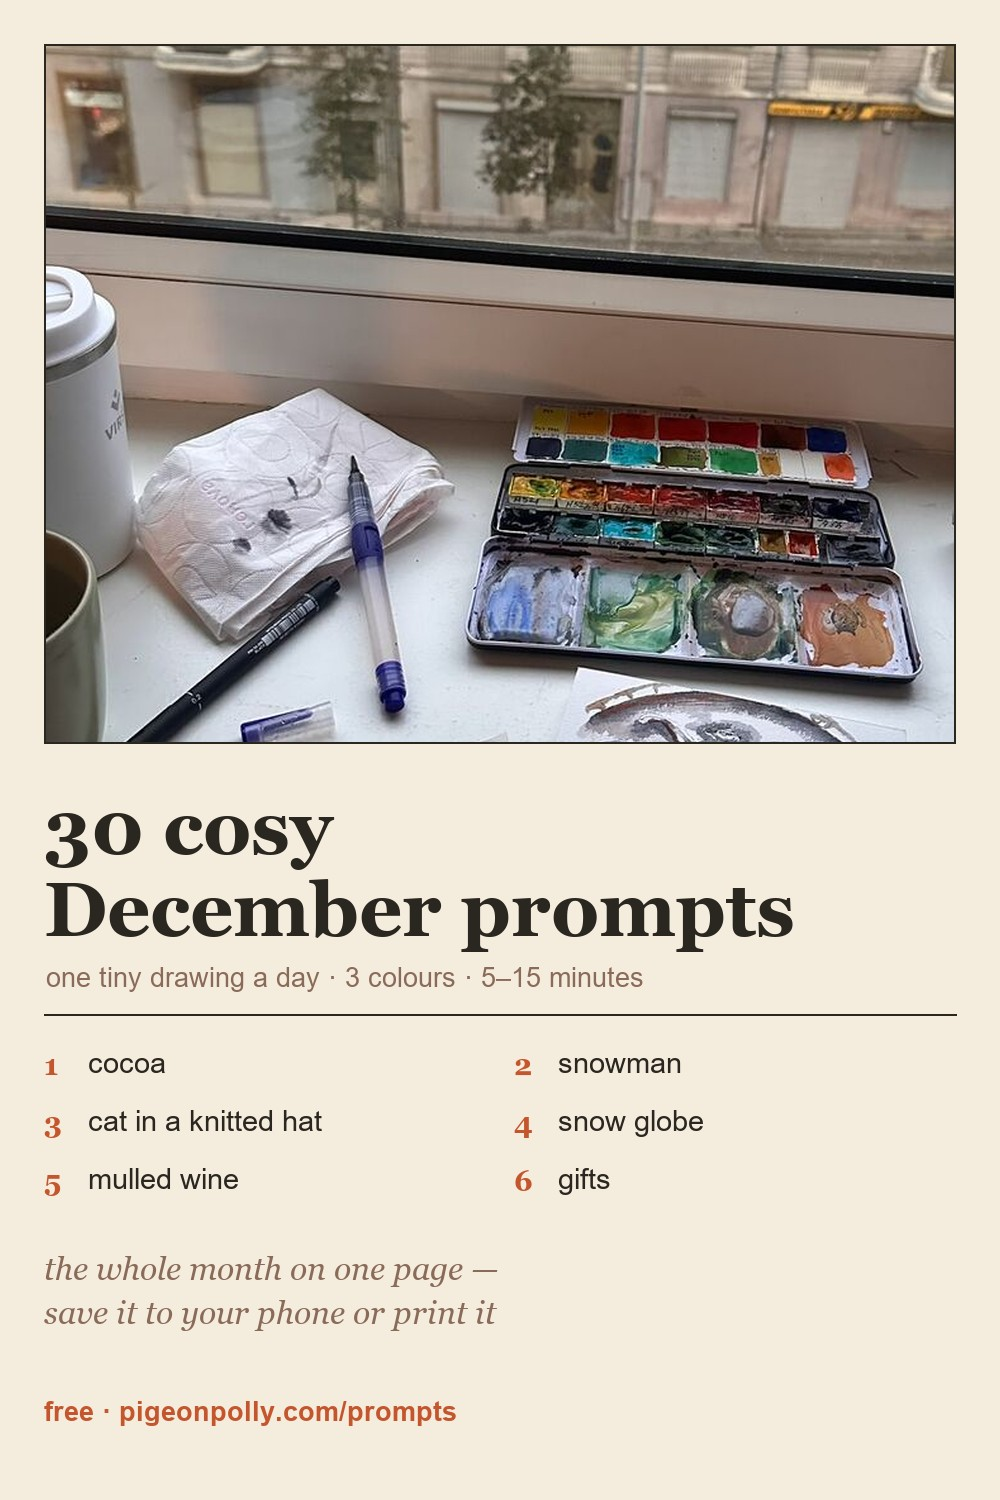
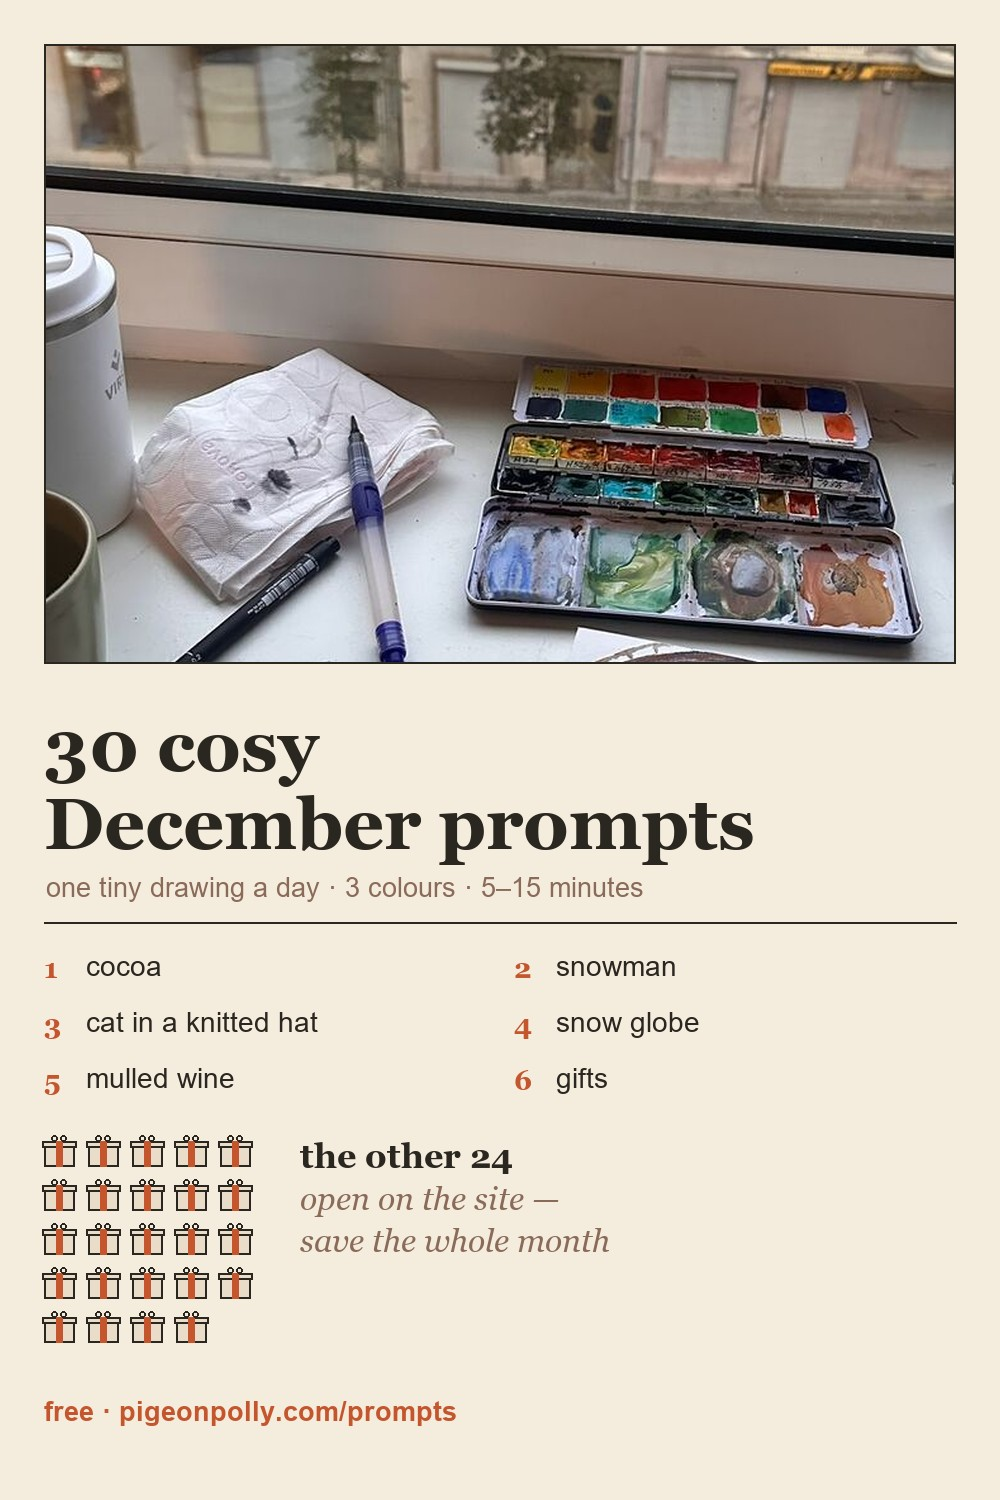
Пины 1–2: месяц крупно, остальные темы подарочками, «open on the site»

diff --git a/tools/pins/dec2026.py b/tools/pins/dec2026.py
@@ -1,4 +1,4 @@
-# -*- coding: utf-8 -*-
+# -*- coding: utf-8 -*-
 """Три пина на декабрь 2026: список тем, один промпт и челлендж.
 Запуск: python tools/pins/dec2026.py  → site/images/pins/dec-2026/*.jpg (1000×1500)
 """
@@ -67,45 +67,67 @@ def save(im, name):
     print('ok', p.relative_to(ROOT))
 
 
+def gift(d, x, y, s, box, line, ribbon):
+    """Маленький подарочек: коробка, лента, бантик — для «остальных тем»."""
+    lid = y + s * 0.30
+    d.rectangle([x, lid, x + s, y + s], fill=box, outline=line, width=2)
+    d.rectangle([x - 2, y + s * 0.18, x + s + 2, lid + 2], fill=box, outline=line, width=2)
+    d.rectangle([x + s * 0.40, y + s * 0.18, x + s * 0.60, y + s], fill=ribbon)
+    d.ellipse([x + s * 0.24, y - s * 0.02, x + s * 0.46, y + s * 0.18], outline=line, width=2)
+    d.ellipse([x + s * 0.54, y - s * 0.02, x + s * 0.76, y + s * 0.18], outline=line, width=2)
+
+
 def pin_list():
-    """Пин 1: бумажная карточка — фото скетчбука в рамке + 6 тем из 31."""
+    """Пин 1: бумажная карточка — фото скетчбука, 6 тем и 25 подарков."""
     canvas = Image.new('RGB', (W, H), PAPER)
     d = ImageDraw.Draw(canvas)
     art = Image.open(IMG / 'photos2' / 'windowsill_riga.jpg').crop((0, 40, 720, 1200))
-    canvas.paste(cover(art, 912, 700), (44, 44))
-    d.rectangle((44, 44, 44 + 911, 44 + 699), outline=(42, 38, 32, 60), width=2)
+    canvas.paste(cover(art, 912, 620), (44, 44))
+    d.rectangle((44, 44, 44 + 911, 44 + 619), outline=(42, 38, 32, 60), width=2)
 
-    d.text((44, 784), '30 cosy', font=font(F_SERIF_B, 76), fill=INK)
-    d.text((44, 866), 'December prompts', font=font(F_SERIF_B, 76), fill=INK)
-    d.text((46, 962), 'one tiny drawing a day · 3 colours · 5–15 minutes',
+    d.text((44, 704), '30 cosy', font=font(F_SERIF_B, 72), fill=INK)
+    d.text((44, 782), 'December prompts', font=font(F_SERIF_B, 72), fill=INK)
+    d.text((46, 872), 'one tiny drawing a day · 3 colours · 5–15 minutes',
            font=font(F_SANS, 27), fill=MUTED)
-    d.line((44, 1014, 956, 1014), fill=(42, 38, 32, 40), width=2)
+    d.line((44, 922, 956, 922), fill=(42, 38, 32, 40), width=2)
 
     items = ['cocoa', 'snowman', 'cat in a knitted hat',
              'snow globe', 'mulled wine', 'gifts']
     for i, t in enumerate(items):
         col, row = i % 2, i // 2
         x = 44 + col * 470
-        y = 1048 + row * 58
-        d.text((x, y), str(i + 1), font=font(F_SERIF_B, 29), fill=ACCENT)
-        d.text((x + 44, y - 2), t, font=font(F_SANS, 29), fill=INK)
+        y = 952 + row * 56
+        d.text((x, y), str(i + 1), font=font(F_SERIF_B, 28), fill=ACCENT)
+        d.text((x + 42, y - 2), t, font=font(F_SANS, 28), fill=INK)
 
-    d.text((44, 1250), 'the whole month on one page —', font=font(F_SERIF_I, 32), fill=MUTED)
-    d.text((44, 1294), 'save it to your phone or print it', font=font(F_SERIF_I, 32), fill=MUTED)
+    gx0, gy0, gs, gap = 44, 1136, 30, 14
+    for i in range(24):
+        gift(d, gx0 + (i % 5) * (gs + gap), gy0 + (i // 5) * (gs + gap), gs,
+             (233, 221, 202), (42, 38, 32, 120), ACCENT)
+
+    d.text((300, 1136), 'the other 24', font=font(F_SERIF_B, 34), fill=INK)
+    d.text((300, 1180), 'open on the site —', font=font(F_SERIF_I, 32), fill=MUTED)
+    d.text((300, 1222), 'save the whole month', font=font(F_SERIF_I, 32), fill=MUTED)
     d.text((44, 1396), 'free · pigeonpolly.com/prompts', font=font(F_SANS_B, 27), fill=ACCENT)
     save(canvas, 'pin-1-list.jpg')
 
 
 def pin_one():
-    """Пин 2: акварель во весь кадр — одна тема крупно."""
+    """Пин 2: акварель во весь кадр — месяц, одна тема и подарки."""
     im = cover(Image.open(IMG / 'photos2' / 'checker_coffee.jpg'), W, H)
+    im = scrim(im, 0, 360, 165, 0)
     im = scrim(im, 600, 1010, 0, 238)
     im = band(im, 1010, H, 238)
     d = ImageDraw.Draw(im)
-    d.text((60, 1000), 'today’s prompt', font=font(F_SERIF_I, 42), fill=PEACH)
-    d.text((58, 1056), 'a cup of cocoa', font=font(F_SERIF_B, 90), fill=CREAM)
-    d.text((60, 1176), '30 cosy December prompts', font=font(F_SANS, 34), fill=WARM)
-    d.text((60, 1228), '5 minutes · 3 colours · free', font=font(F_SANS, 27), fill=WARM)
+    d.text((58, 66), 'December', font=font(F_SERIF_B, 80), fill=CREAM)
+    d.text((60, 168), '30 cosy drawing prompts', font=font(F_SANS, 30), fill=WARM)
+
+    d.text((60, 936), 'today’s prompt', font=font(F_SERIF_I, 42), fill=PEACH)
+    d.text((58, 992), 'a cup of cocoa', font=font(F_SERIF_B, 88), fill=CREAM)
+    d.text((60, 1112), 'the other 29 open on the site', font=font(F_SANS, 28), fill=WARM)
+    for i in range(9):
+        gift(d, 60 + i * 46, 1160, 32, (52, 38, 58), WARM, PEACH)
+    d.text((60, 1250), '5 minutes · 3 colours · free', font=font(F_SANS, 26), fill=WARM)
     d.text((60, 1392), 'pigeonpolly.com/prompts', font=font(F_SANS_B, 28), fill=PEACH)
     save(im, 'pin-2-cocoa.jpg')
 
@@ -128,4 +150,5 @@ if __name__ == '__main__':
     pin_list()
     pin_one()
     pin_challenge()
+
 

diff --git a/docs/pinterest-dec2026.md b/docs/pinterest-dec2026.md
@@ -4,6 +4,8 @@
 (`python tools/pins/dec2026.py` — перерисует все три; арты берутся из `site/images/photos2` и `site/images/freebies/wall`).
 Ссылки ведут на `/prompts/` — с 20-го числа страница открывается на декабрь.
 
+Дизайн: месяц назван крупно; видно 6 тем (или одну), а остальные 24 / 29 — подарочками, с подписью «the other 24 open on the site» и адресом. Так видно и месяц, и что на сайте ждёт остальное.
+
 ---
 
 ## Пин 1 — список тем (бумажная карточка, фото скетчбука на подоконнике)
